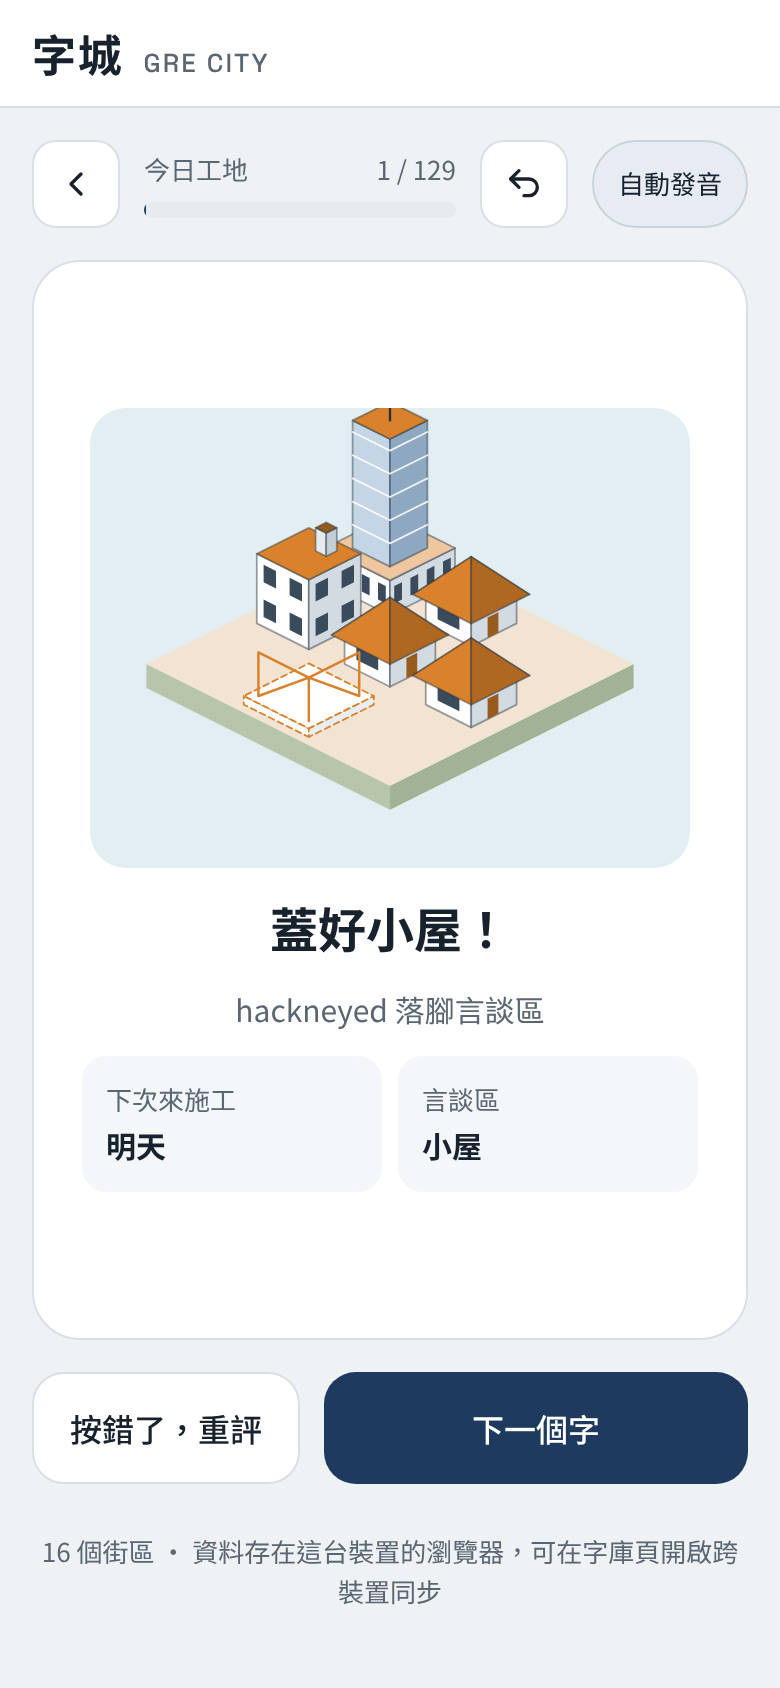
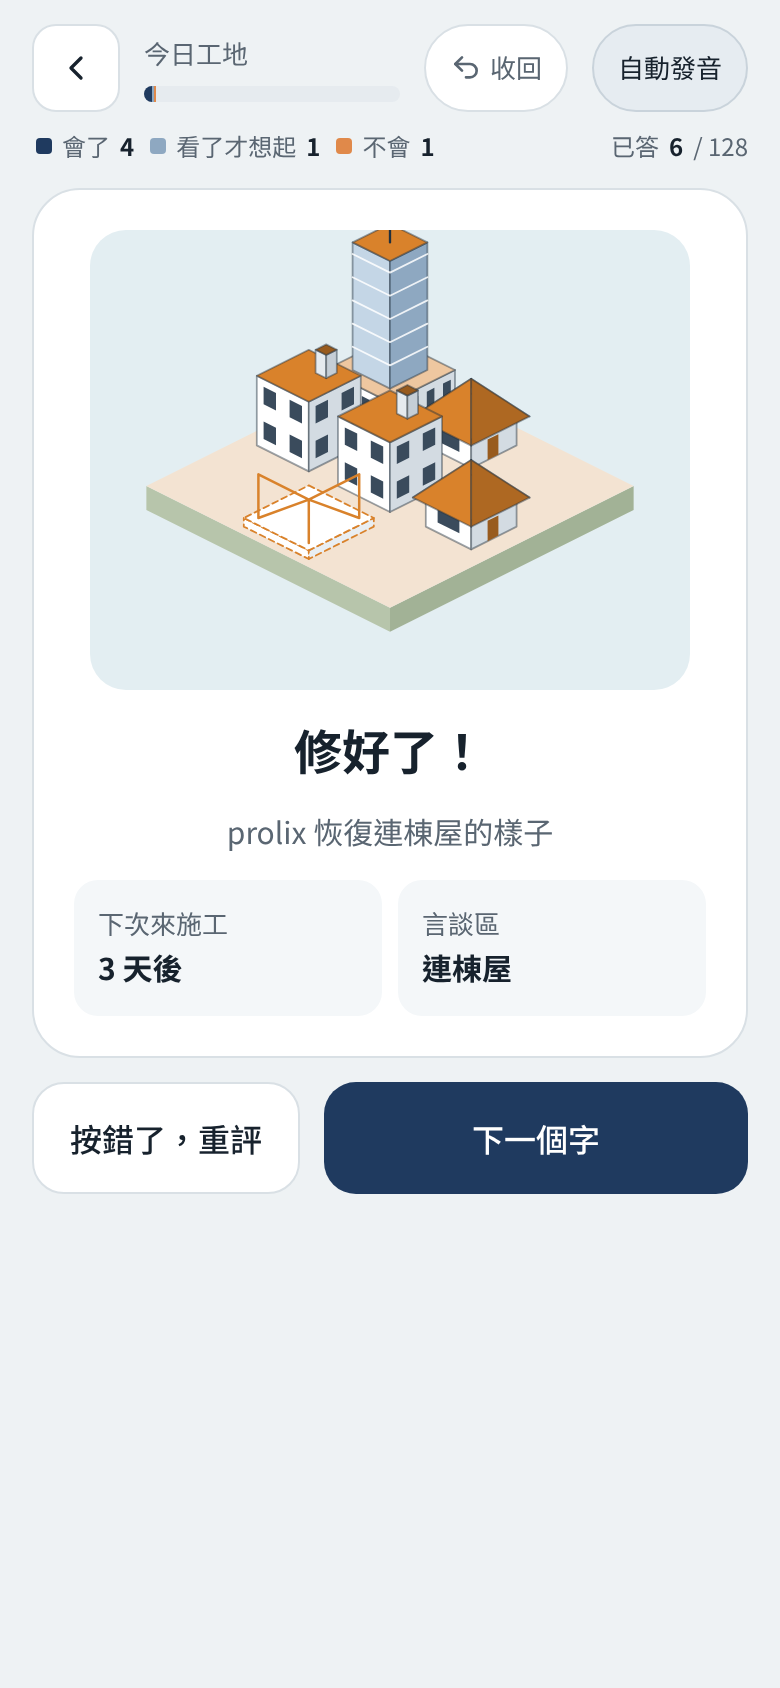
Refresh README screenshots; anchor the map word tag to the drawn roof
New shots show the three-colour tally, synonym/antonym rows and the word
tag on the map. The tag's height now comes from the building's actual
drawing instead of a per-level estimate.

Claude-Session: https://claude.ai/code/session_015BagGF3dJNBEMAhortGT5m

diff --git a/src/components/CityMap.tsx b/src/components/CityMap.tsx
@@ -167,7 +167,7 @@ export function CityMap({ layout, selectedDistrict, selectedWord, focus, onSelec
             </g>
           );
         })}
-        {sel && <WordTag x={sel.cx} y={sel.cy - (ROOF[sel.word.srs?.level ?? 0] ?? 40)} u={u} word={sel.word.word} zh={sel.word.zh} />}
+        {sel && <WordTag x={sel.cx} y={Math.min(sel.cy - HH, roofOf(sel.parts))} u={u} word={sel.word.word} zh={sel.word.zh} />}
       </svg>
       <div className="map-tools">
         <button type="button" className="icon-btn" aria-label="縮小" onClick={() => zoomCenter(1.25)}>
@@ -189,8 +189,19 @@ function edge(c: string) {
   return mix(c, '#FFFFFF', 0.45);
 }
 
-/** Roughly how tall each level's building stands, so the tag floats just above its roof. */
-const ROOF = [6, 18, 34, 48, 64, 70];
+/** The highest point the building is actually drawn at, so the tag sits just above its roof whatever its state. */
+function roofOf(parts: { d: string }[]): number {
+  let top = Infinity;
+  for (const p of parts) {
+    // Absolute M/L/A/Z commands only; an arc's end point is its last two numbers.
+    for (const [, cmd, args] of p.d.matchAll(/([MLAZ])([^MLAZ]*)/g)) {
+      const n = (args.match(/-?\d+(?:\.\d+)?/g) ?? []).map(Number);
+      if (cmd === 'A') top = Math.min(top, n[n.length - 1], n[n.length - 1] - n[1]);
+      else for (let i = 1; i < n.length; i += 2) top = Math.min(top, n[i]);
+    }
+  }
+  return top;
+}
 
 /** A callout naming the tapped building, kept a constant on-screen size like the district labels. */
 function WordTag({ x, y, u, word, zh }: { x: number; y: number; u: number; word: string; zh: string }) {

diff --git a/README.md b/README.md
@@ -24,7 +24,7 @@
 
 <p>
   <img src="docs/images/study-front.png" width="260" alt="複習：看字想意思">
-  <img src="docs/images/study-back.png" width="260" alt="點卡片或「翻面」後自評">
+  <img src="docs/images/study-back.png" width="260" alt="背面：字根、例句、同反義字；上方進度條依會了／看了才想起／不會分色">
   <img src="docs/images/study-done.png" width="260" alt="答對後建築升級">
 </p>
 
@@ -56,7 +56,7 @@
 - 逾期超過一個間隔：建築長草，必須先答對一次「修復」才能再升級。
 
 <p>
-  <img src="docs/images/district.png" width="49%" alt="放大到單一街區">
+  <img src="docs/images/district.png" width="49%" alt="放大到單一街區，點建築顯示是哪個字">
   <img src="docs/images/stats.png" width="49%" alt="統計">
 </p>
 
